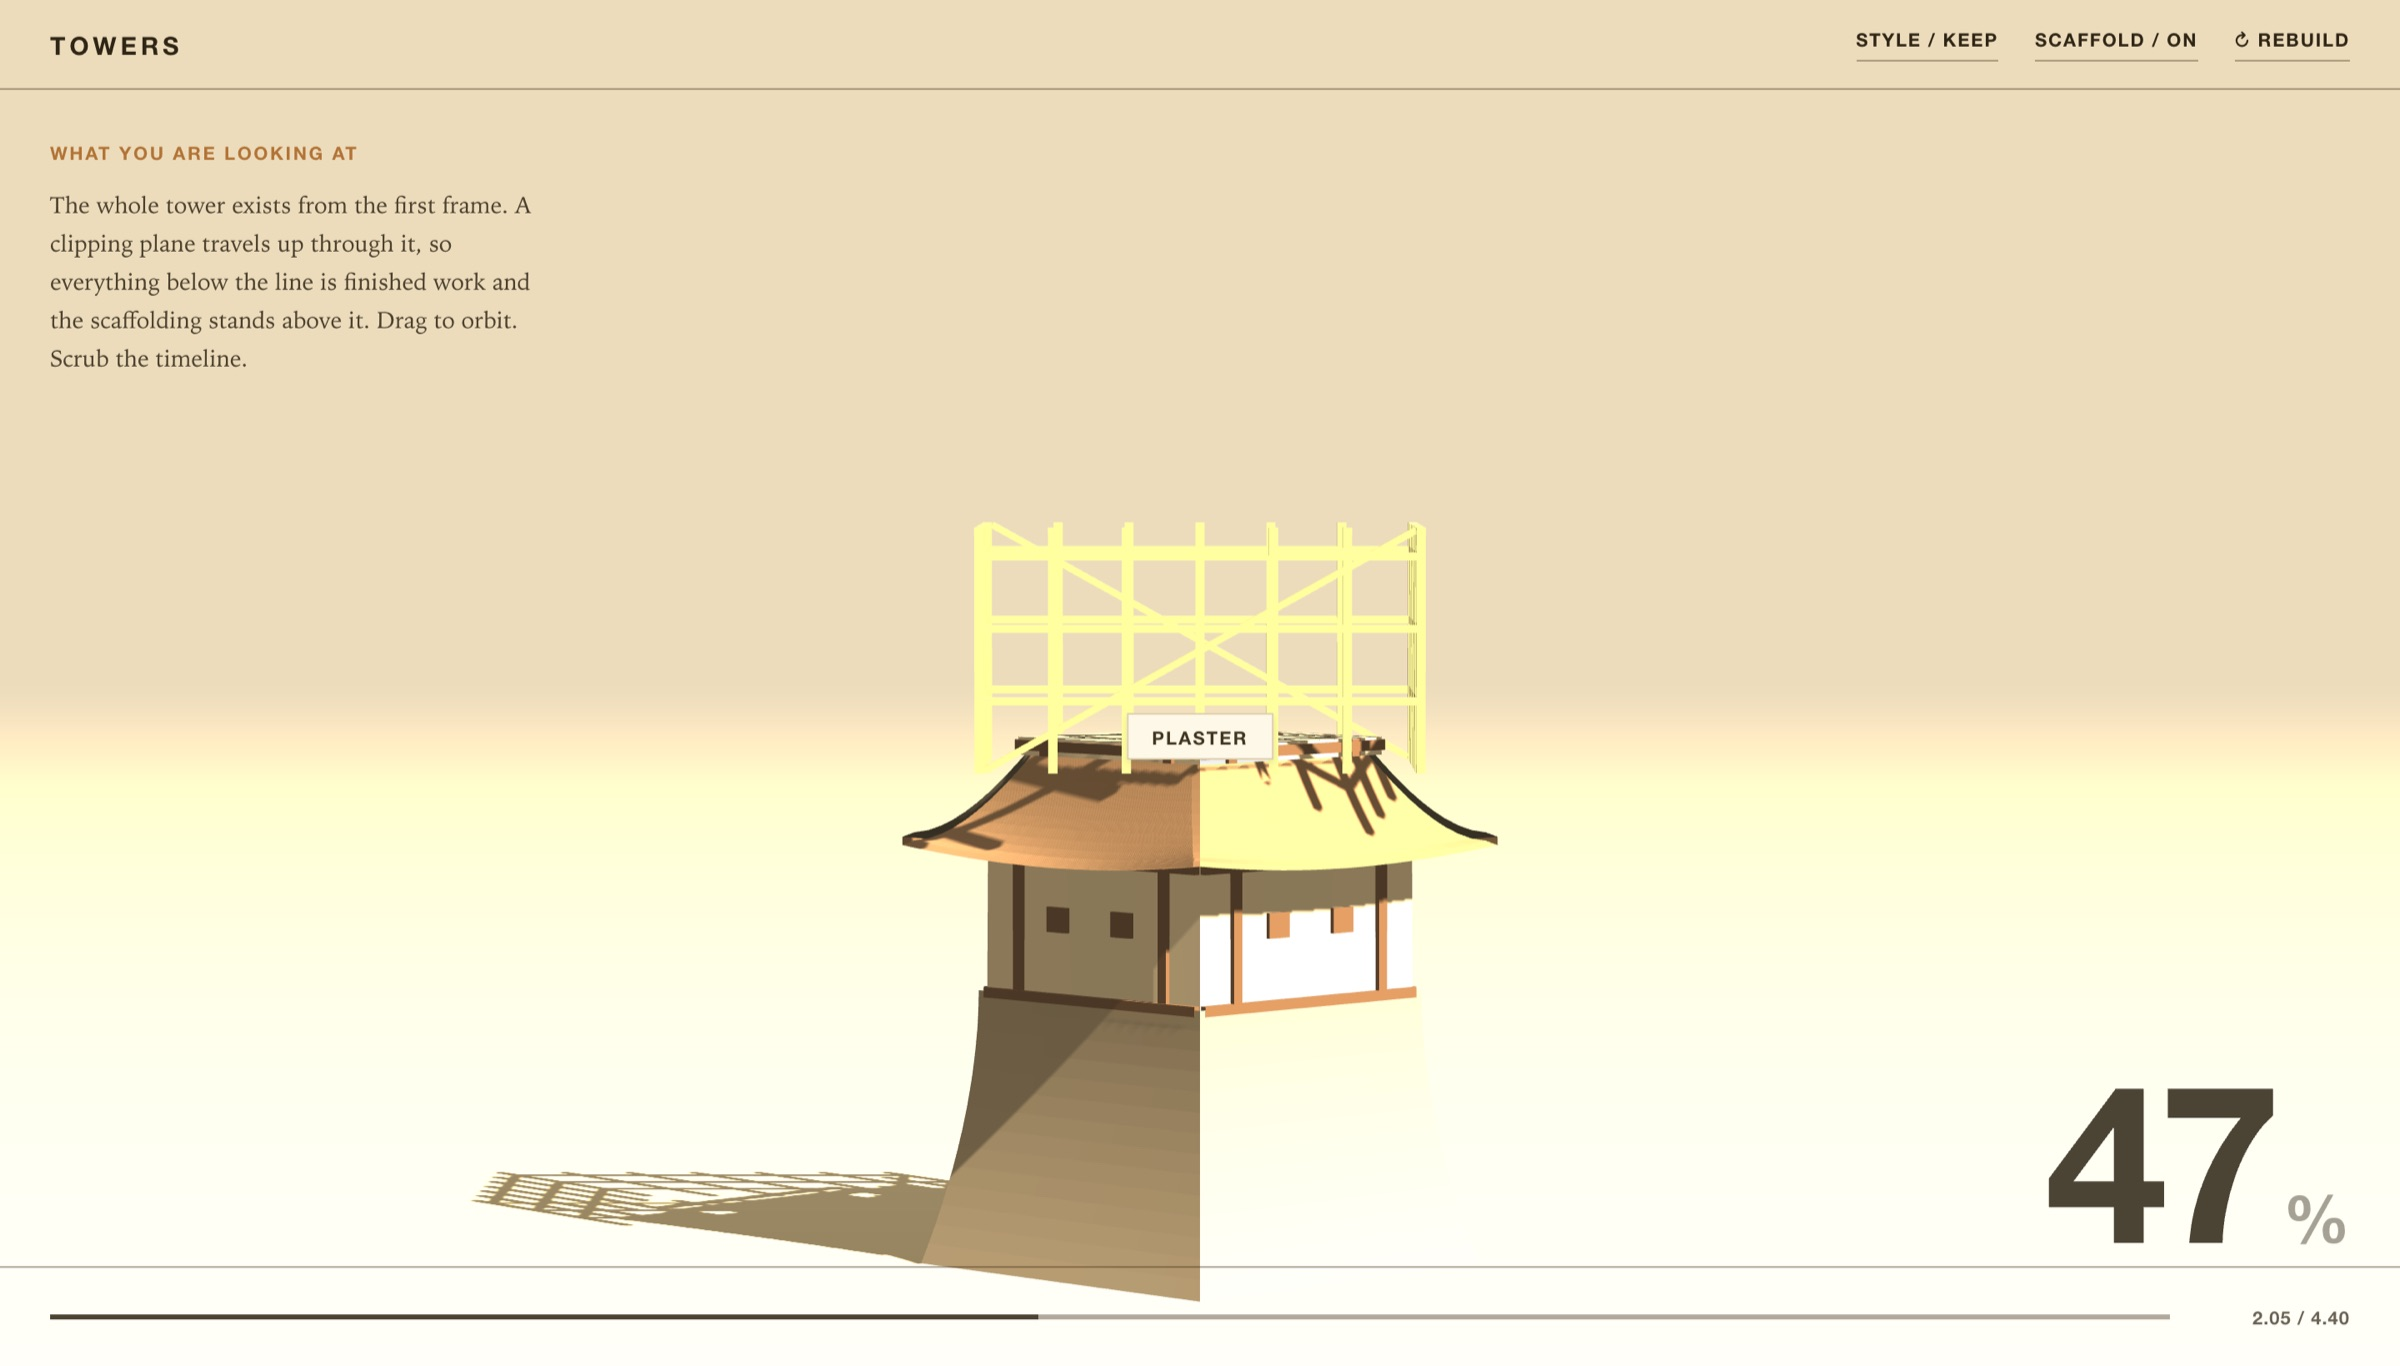
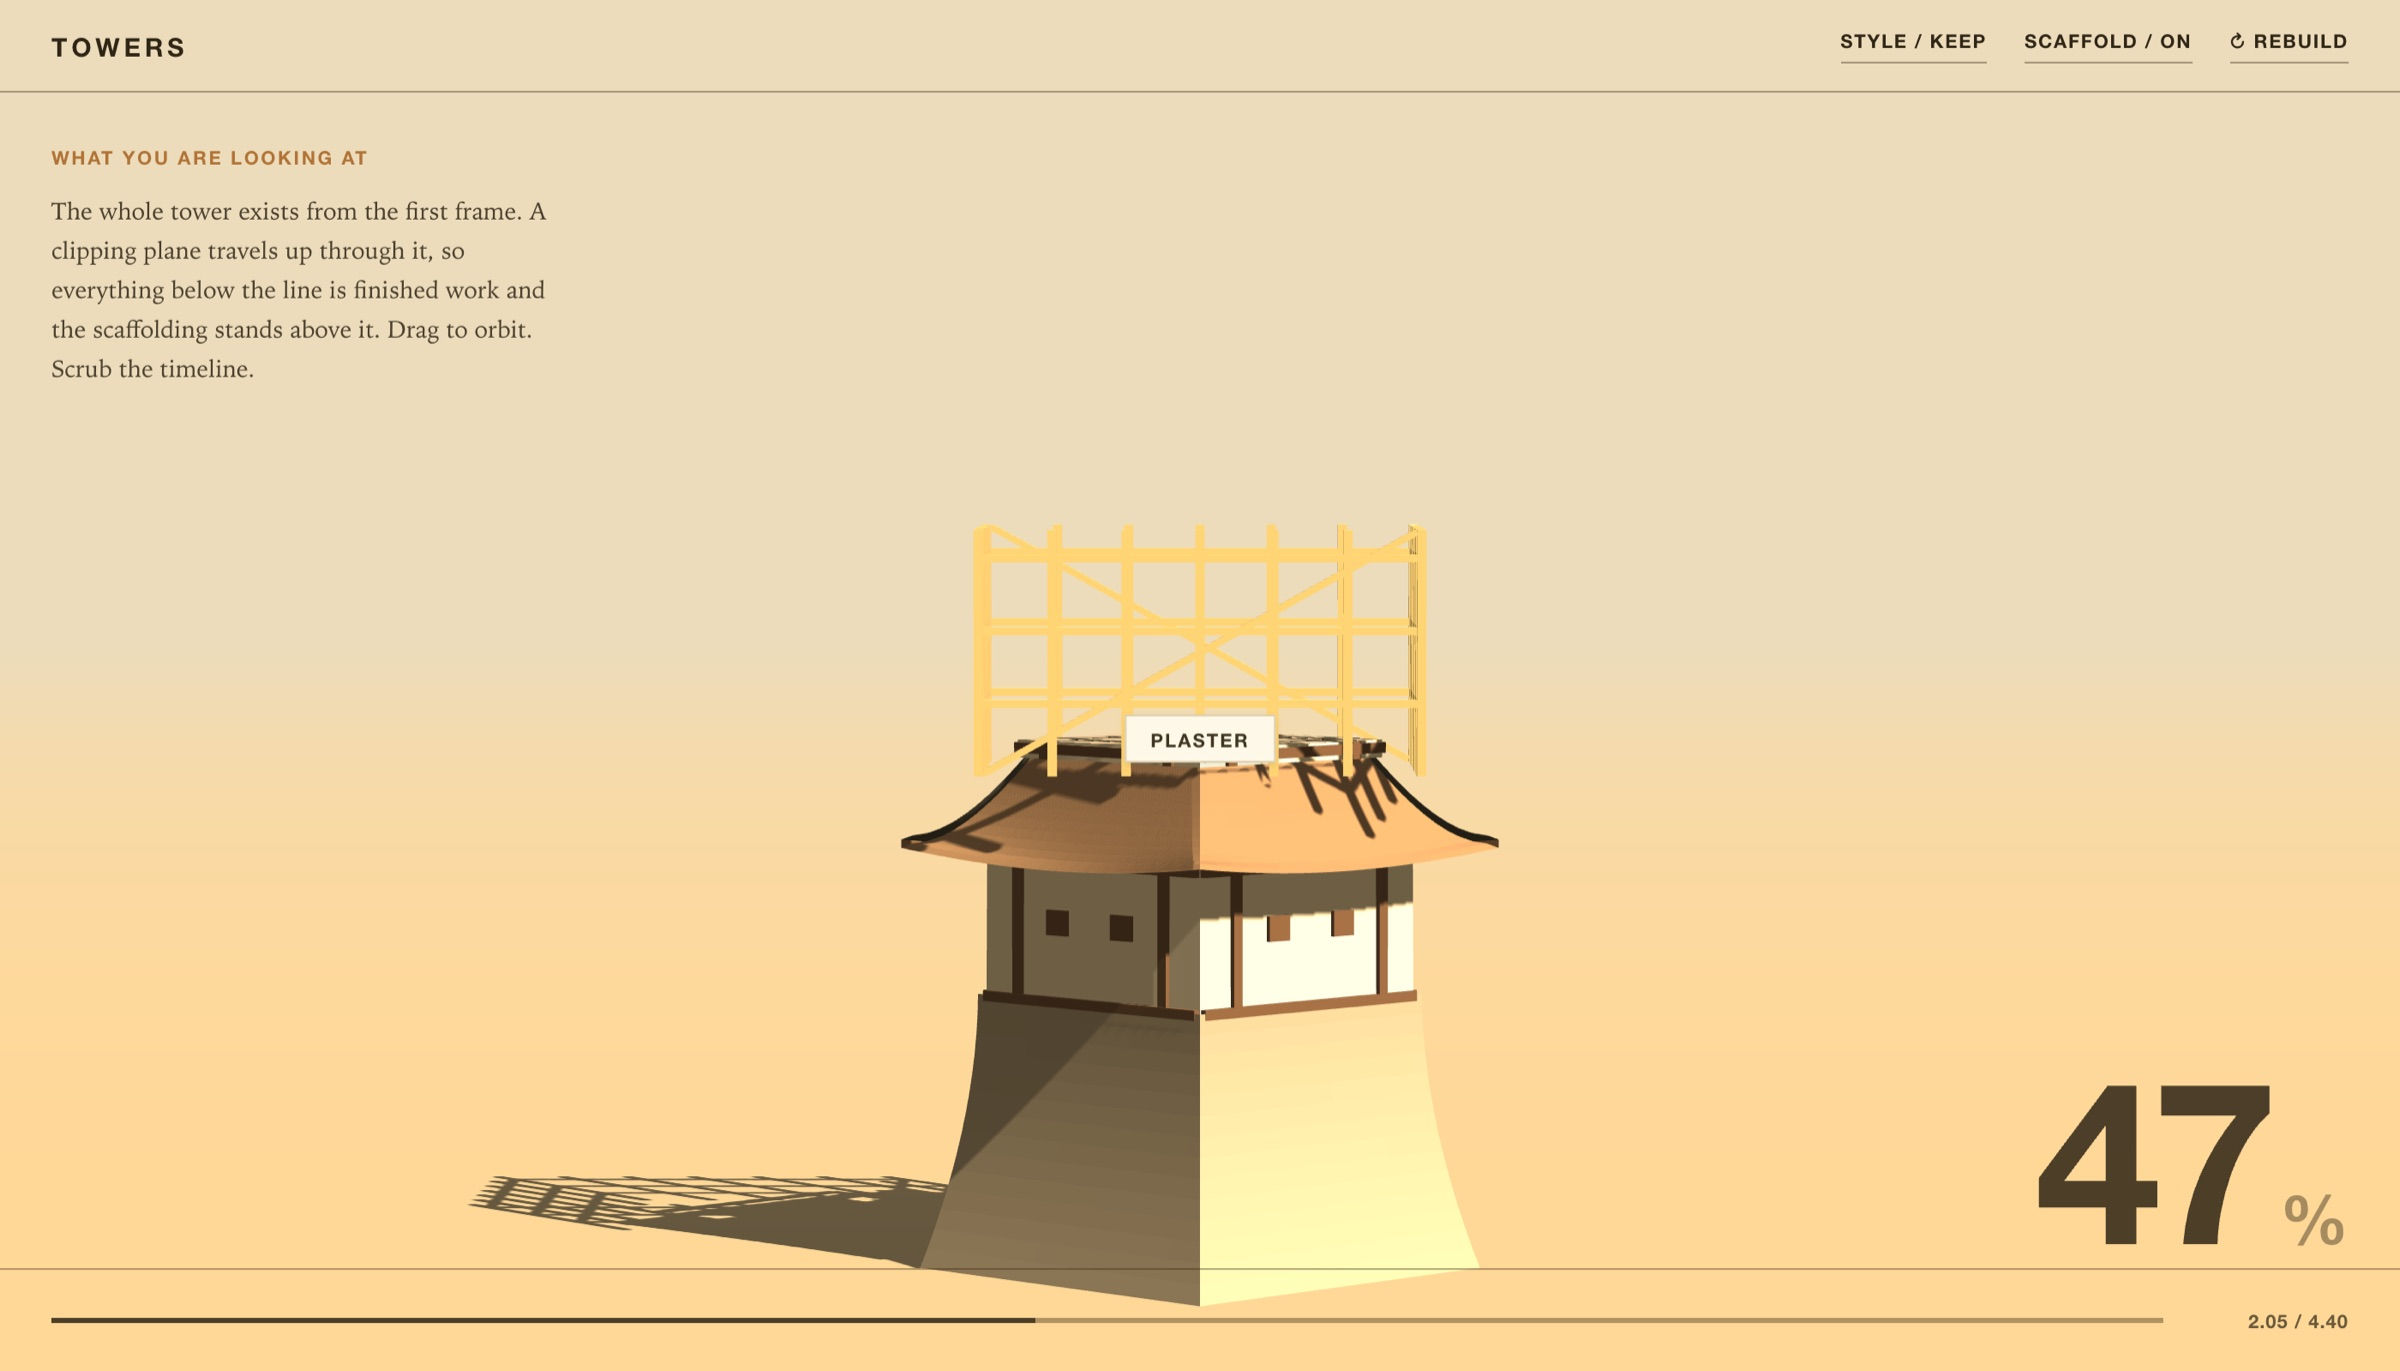
Fix the demo canvases sizing to their intrinsic width
A <canvas> is a replaced element, so position:absolute + inset:0 does not
stretch it — with width:auto it falls back to its intrinsic width/height
attributes, which at DPR 2 is twice the viewport. The page was showing the
top-left quarter of a correctly rendered frame, which reads as a broken or
half-empty scene in any embedded browser.

Also re-layout from the render loop whenever the reported viewport size
changes, because an embedded or backgrounded view can report 0x0 at load
and never fire a resize event afterwards.

Towers additionally: key light down from 2.1 to 1.45 so the ground stops
blowing out, and the stage plaque clamped clear of the header and footer.

diff --git a/agent-skills/web-design/threejs-towers/demo/index.html b/agent-skills/web-design/threejs-towers/demo/index.html
@@ -16,7 +16,11 @@ html,body{height:100%}
 body{background:var(--paper);color:var(--ink);font-family:var(--sans);overflow:hidden;
   -webkit-font-smoothing:antialiased;transition:background-color .6s ease,color .6s ease}
 #app{position:fixed;inset:0}
-#stage{position:absolute;inset:0;display:block;cursor:grab;touch-action:none}
+/* a canvas is a replaced element, so inset:0 does NOT stretch it — without
+   an explicit size it falls back to its intrinsic width/height attributes,
+   which at DPR 2 is twice the viewport, and the page shows a corner of it */
+#stage{position:absolute;inset:0;width:100%;height:100%;display:block;
+  cursor:grab;touch-action:none}
 #stage.drag{cursor:grabbing}
 header{position:absolute;left:0;right:0;top:0;height:54px;padding:0 30px;display:flex;
   align-items:center;gap:22px;border-bottom:1px solid var(--hair)}
@@ -352,9 +356,9 @@ renderer.localClippingEnabled=true;                 /* the whole trick */
 const scene=new T.Scene();
 scene.background=new T.Color(0xecdcbc);        /* the page colour, so the
    ground reads as a plate rather than a lit object floating in the void */
-scene.fog=new T.Fog(0xecdcbc,44,240);
+scene.fog=new T.Fog(0xecdcbc,60,300);
 const camera=new T.PerspectiveCamera(12,1,0.5,900);
-const key=new T.DirectionalLight(0xffe9c8,2.1);
+const key=new T.DirectionalLight(0xffe9c8,1.45);
 key.position.set(26,34,30);key.castShadow=true;
 key.shadow.mapSize.set(2048,2048);
 key.shadow.camera.near=1;key.shadow.camera.far=120;
@@ -362,11 +366,11 @@ key.shadow.camera.left=-16;key.shadow.camera.right=16;
 key.shadow.camera.top=26;key.shadow.camera.bottom=-8;
 key.shadow.bias=-0.0014;
 scene.add(key,key.target);
-scene.add(new T.HemisphereLight(0xfff0d4,0x6d5a34,0.55));
+scene.add(new T.HemisphereLight(0xfff0d4,0x6d5a34,0.42));
 scene.add(new T.AmbientLight(0xffe9c8,0.16));
 
 const ground=new T.Mesh(new T.CircleGeometry(300,64),
-  new T.MeshLambertMaterial({color:0xc9bb98}));
+  new T.MeshLambertMaterial({color:0xa89a7c}));
 ground.rotation.x=-Math.PI/2;ground.position.y=-0.02;ground.receiveShadow=true;
 scene.add(ground);
 
@@ -509,7 +513,8 @@ const _v=new T.Vector3();
 function placePlaque(h){
   _v.set(0,Math.max(0.4,h),0).project(camera);
   plaqueEl.style.left=((_v.x*0.5+0.5)*innerWidth)+'px';
-  plaqueEl.style.top=((-_v.y*0.5+0.5)*innerHeight)+'px';
+  const py=(-_v.y*0.5+0.5)*innerHeight;
+  plaqueEl.style.top=Math.max(76,Math.min(innerHeight-84,py))+'px';
 }
 function applyStyle(i){
   styleIdx=((i%STYLES.length)+STYLES.length)%STYLES.length;
@@ -545,6 +550,14 @@ function layout(){
   camera.aspect=innerWidth/innerHeight;placeCamera(1);
 }
 addEventListener('resize',layout);
+/* an embedded or background browser view can report a zero-size viewport at
+   load, and a resize event never comes. Re-layout whenever the size the page
+   reports stops matching the size the renderer was built for. */
+let _lw=0,_lh=0;
+function checkSize(){
+  const w=innerWidth,h=innerHeight;
+  if(w>0&&h>0&&(w!==_lw||h!==_lh)){_lw=w;_lh=h;layout();}
+}
 
 const ptrs=new Map();
 let dragging=false,lastX=0,lastY=0,pinchD=0,pinchZ=1;
@@ -595,6 +608,7 @@ applyStyle(0);layout();
 let prev=performance.now(),frames=0,acc=0,fps=0;
 (function frame(now){
   const dt=Math.min(0.05,(now-prev)/1000);prev=now;
+  checkSize();
   if(playing){let nt=t+dt;if(nt>=DUR){nt=DUR;playing=false;}applyTime(nt);}
   placeCamera(1-Math.pow(0.0012,dt));
   placePlaque(CLIP.constant);

diff --git a/agent-skills/web-design/threejs-weather/demo/index.html b/agent-skills/web-design/threejs-weather/demo/index.html
@@ -16,7 +16,11 @@ html,body{height:100%}
 body{background:var(--paper);color:var(--ink);font-family:var(--sans);overflow:hidden;
   -webkit-font-smoothing:antialiased;transition:background-color .6s ease,color .6s ease}
 #app{position:fixed;inset:0}
-#stage{position:absolute;inset:0;display:block;cursor:grab;touch-action:none}
+/* a canvas is a replaced element, so inset:0 does NOT stretch it — without
+   an explicit size it falls back to its intrinsic width/height attributes,
+   which at DPR 2 is twice the viewport, and the page shows a corner of it */
+#stage{position:absolute;inset:0;width:100%;height:100%;display:block;
+  cursor:grab;touch-action:none}
 #stage.drag{cursor:grabbing}
 header{position:absolute;left:0;right:0;top:0;height:54px;padding:0 30px;display:flex;
   align-items:center;gap:22px;border-bottom:1px solid var(--hair);
@@ -755,6 +759,14 @@ function layout(){
   camera.aspect=w/h;placeCamera(1);
 }
 addEventListener('resize',layout);
+/* an embedded or background browser view can report a zero-size viewport at
+   load, and a resize event never comes. Re-layout whenever the size the page
+   reports stops matching the size the renderer was built for. */
+let _lw=0,_lh=0;
+function checkSize(){
+  const w=innerWidth,h=innerHeight;
+  if(w>0&&h>0&&(w!==_lw||h!==_lh)){_lw=w;_lh=h;layout();}
+}
 
 const ptrs=new Map();
 let dragging=false,lastX=0,lastY=0,pinchD=0,pinchZ=1;
@@ -797,6 +809,7 @@ applyWeather(0,true);applyTheme(0,true);layout();
 let prev=performance.now();
 (function frame(now){
   const dt=Math.min(0.05,(now-prev)/1000);prev=now;
+  checkSize();
   if(themeMix<1){
     themeMix=Math.min(1,themeMix+dt/1.25);
     const e=themeMix<.5?2*themeMix*themeMix:1-Math.pow(-2*themeMix+2,2)/2;

diff --git a/agent-skills/web-design/threejs-landscape/demo/index.html b/agent-skills/web-design/threejs-landscape/demo/index.html
@@ -16,7 +16,11 @@ html,body{height:100%}
 body{background:var(--paper);color:var(--ink);font-family:var(--sans);overflow:hidden;
   -webkit-font-smoothing:antialiased;transition:background-color .6s ease,color .6s ease}
 #app{position:fixed;inset:0}
-#stage{position:absolute;inset:0;display:block;cursor:grab;touch-action:none}
+/* a canvas is a replaced element, so inset:0 does NOT stretch it — without
+   an explicit size it falls back to its intrinsic width/height attributes,
+   which at DPR 2 is twice the viewport, and the page shows a corner of it */
+#stage{position:absolute;inset:0;width:100%;height:100%;display:block;
+  cursor:grab;touch-action:none}
 #stage.drag{cursor:grabbing}
 header{position:absolute;left:0;right:0;top:0;height:54px;padding:0 30px;display:flex;
   align-items:center;gap:22px;border-bottom:1px solid var(--hair);
@@ -514,6 +518,14 @@ function layout(){
   camera.aspect=w/h;placeCamera(1);
 }
 addEventListener('resize',layout);
+/* an embedded or background browser view can report a zero-size viewport at
+   load, and a resize event never comes. Re-layout whenever the size the page
+   reports stops matching the size the renderer was built for. */
+let _lw=0,_lh=0;
+function checkSize(){
+  const w=innerWidth,h=innerHeight;
+  if(w>0&&h>0&&(w!==_lw||h!==_lh)){_lw=w;_lh=h;layout();}
+}
 
 const ptrs=new Map();
 let dragging=false,lastX=0,lastY=0,pinchD=0,pinchZ=1;
@@ -564,6 +576,7 @@ applyTheme(0,true);layout();
 let prev=performance.now();
 (function frame(now){
   const dt=Math.min(0.05,(now-prev)/1000);prev=now;
+  checkSize();
   if(themeMix<1){
     themeMix=Math.min(1,themeMix+dt/1.25);
     const e=themeMix<.5?2*themeMix*themeMix:1-Math.pow(-2*themeMix+2,2)/2;
